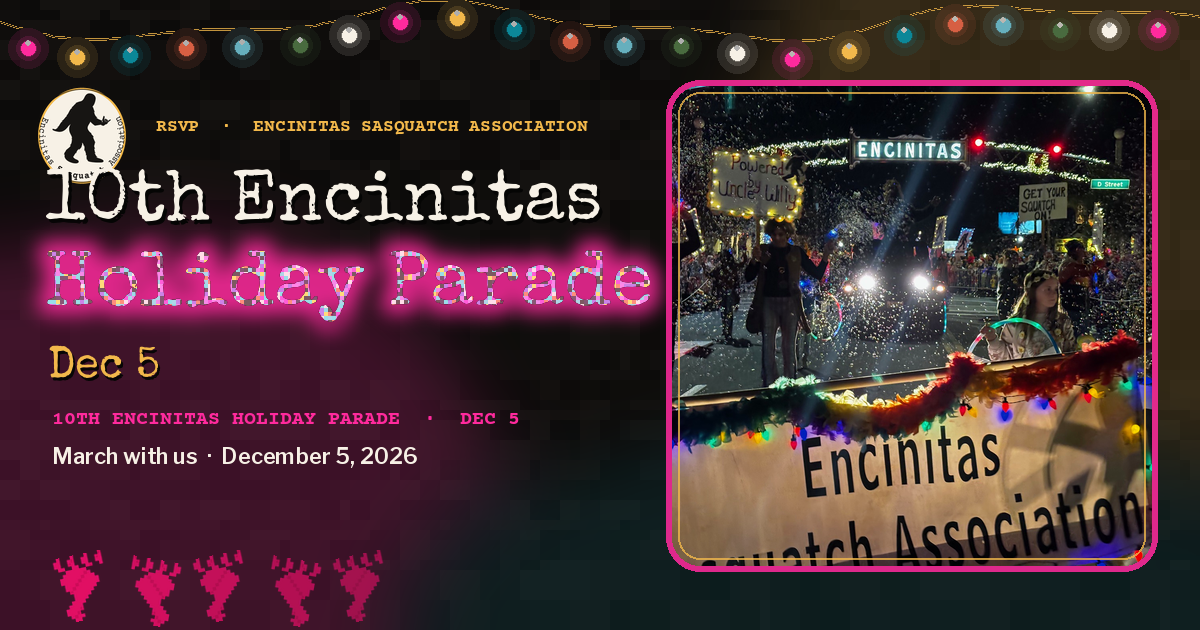
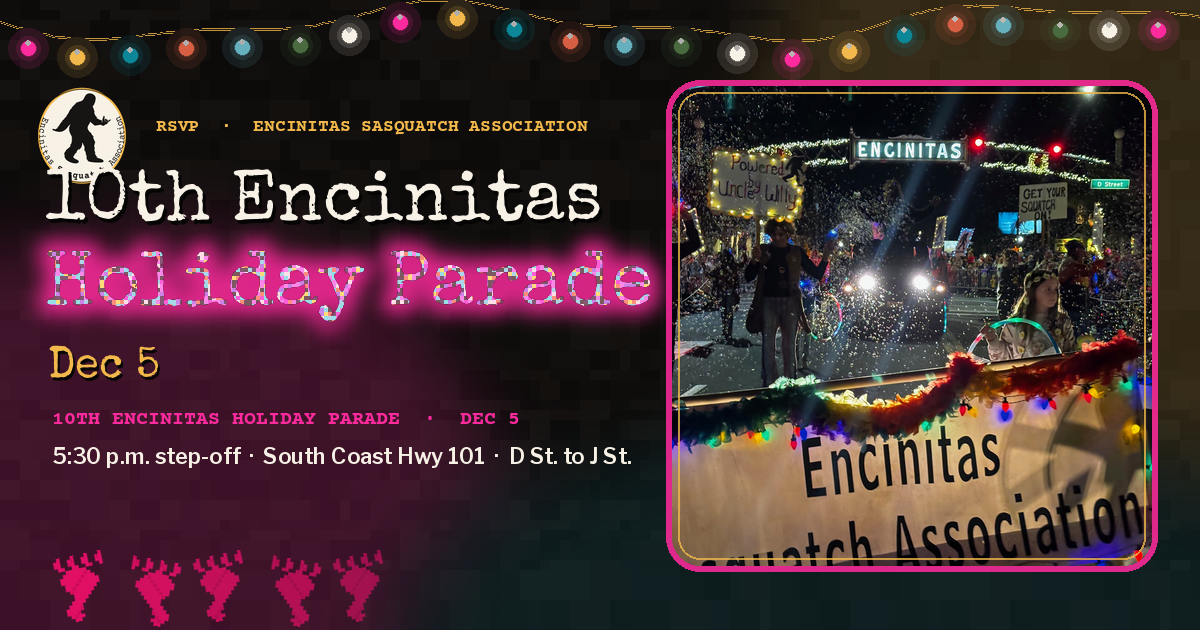
Make Holiday Parade 2026 date, time, and route unmistakable.
Add a high-contrast When & Where block to the parade event page, RSVP page, and featured home/upcoming cards, with Saturday, December 5, 2026, 5:30 p.m. step-off, and South Coast Hwy 101 from D St. to J St. Include Open in Maps and an Add to calendar .ics. Correct the shorter Coast Hwy 101 wording in events.json and the parade OG images. Staging stays TBD and is labeled separately from step-off.

Changed region(s): [[0.0308, 0.6937, 0.4008, 0.754], [0.4317, 0.6937, 0.5242, 0.754]]

diff --git a/public/css/styles.css b/public/css/styles.css
@@ -1282,3 +1282,99 @@ body.is-parade-rsvp .marching-list .party { color: var(--sun); }
   .rsvp-parade-hero .pk-camo, .rsvp-success-card .pk-camo { height: 72px; }
   .rsvp-success-card { padding-top: 72px; }
 }
+
+
+/* When & Where — Holiday Parade 2026 */
+.when-where {
+  position: relative;
+  overflow: hidden;
+  background: #171513;
+  color: var(--paper);
+  border-radius: 22px;
+  padding: 20px 22px 22px;
+  margin: 16px 0 20px;
+  border: 2px solid var(--sun);
+  box-shadow: 0 0 0 3px rgba(255, 42, 157, 0.4), var(--shadow);
+}
+.when-where .ww-kicker {
+  font-family: var(--mono);
+  font-weight: 700;
+  font-size: 0.72rem;
+  letter-spacing: 0.16em;
+  text-transform: uppercase;
+  color: var(--sun);
+  margin: 0 0 8px;
+}
+.when-where .ww-date {
+  font-family: var(--display);
+  font-weight: 700;
+  font-size: clamp(1.7rem, 4.4vw, 2.45rem);
+  line-height: 1.08;
+  letter-spacing: -0.02em;
+  color: var(--paper);
+  margin: 0 0 8px;
+}
+.when-where .ww-time {
+  font-family: var(--display);
+  font-weight: 700;
+  font-size: clamp(1.85rem, 5vw, 2.7rem);
+  line-height: 1.05;
+  letter-spacing: -0.02em;
+  color: #FF2A9D;
+  margin: 0 0 12px;
+}
+.when-where .ww-time-lead {
+  display: block;
+  font-family: var(--mono);
+  font-size: 0.72rem;
+  letter-spacing: 0.12em;
+  text-transform: uppercase;
+  color: var(--sun);
+  font-weight: 700;
+  margin: 0 0 4px;
+}
+.when-where .ww-route {
+  font-family: var(--display);
+  font-weight: 600;
+  font-size: clamp(1.15rem, 2.8vw, 1.5rem);
+  line-height: 1.25;
+  letter-spacing: -0.02em;
+  color: var(--paper);
+  margin: 0;
+}
+.when-where .ww-city {
+  margin: 4px 0 0;
+  color: rgba(247, 241, 230, 0.78);
+  font-size: 1rem;
+}
+.when-where .ww-actions { margin-top: 16px; }
+.when-where .ww-actions .btn-ghost {
+  border-color: var(--paper);
+  color: var(--paper) !important;
+}
+.when-where .ww-actions .btn-ghost:hover {
+  background: var(--paper);
+  color: var(--ink) !important;
+}
+.when-where.is-compact {
+  padding: 16px 18px 18px;
+  margin: 12px 0 16px;
+}
+.when-where.is-compact .ww-date { font-size: clamp(1.35rem, 3.2vw, 1.85rem); }
+.when-where.is-compact .ww-time { font-size: clamp(1.5rem, 3.6vw, 2.1rem); margin-bottom: 8px; }
+.when-where.is-compact .ww-route { font-size: clamp(1.05rem, 2.4vw, 1.25rem); }
+.when-where.is-compact .ww-actions { margin-top: 14px; }
+.when-where.is-compact .ww-actions .btn { padding: 12px 18px; }
+
+.rsvp-parade-hero .when-where,
+.event-hero .when-where {
+  max-width: 34rem;
+}
+.rsvp-parade-hero .when-where { margin: 12px 0 22px; }
+.rsvp-parade-hero .pk-headline { margin-top: 8px; }
+
+@media (max-width: 800px) {
+  .when-where { margin-top: 14px; padding: 16px 16px 18px; }
+  .event-hero .when-where,
+  .rsvp-parade-hero .when-where { max-width: none; }
+}

diff --git a/public/js/main.js b/public/js/main.js
@@ -244,7 +244,7 @@
           <div class="spotlight-copy">
             <p class="eyebrow">Next up · ${ESA.escapeHtml(next.type)}</p>
             <h2>${ESA.escapeHtml(next.name)}</h2>
-            <p class="meta" style="color:var(--sun);">${ESA.escapeHtml(ESA.formatDate(next))}${next.location ? " · " + ESA.escapeHtml(next.location) : ""}</p>
+            ${isParade2026(next) && window.ESA_FESTIVE ? window.ESA_FESTIVE.whenWhereHtml({ compact: true }) : `<p class="meta" style="color:var(--sun);">${ESA.escapeHtml(ESA.formatDate(next))}${next.location ? " · " + ESA.escapeHtml(next.location) : ""}</p>`}
             <p>${ESA.escapeHtml(next.summary)}</p>
             <p class="rsvp-count" data-rsvp-count="${ESA.escapeHtml(next.slug)}" hidden></p>
             <div class="btn-row">
@@ -273,7 +273,7 @@
             <div class="spotlight-copy">
               <p class="eyebrow">${ESA.escapeHtml(ev.type)}</p>
               <h2>${ESA.escapeHtml(ev.name)}</h2>
-              <p class="meta" style="color:var(--sun);">${ESA.escapeHtml(ESA.formatDate(ev))}${ev.location ? " · " + ESA.escapeHtml(ev.location) : ""}</p>
+              ${isParade2026(ev) && window.ESA_FESTIVE ? window.ESA_FESTIVE.whenWhereHtml({ compact: true }) : `<p class="meta" style="color:var(--sun);">${ESA.escapeHtml(ESA.formatDate(ev))}${ev.location ? " · " + ESA.escapeHtml(ev.location) : ""}</p>`}
               <p>${ESA.escapeHtml(ev.summary)}</p>
               <p class="rsvp-count" data-rsvp-count="${ESA.escapeHtml(ev.slug)}" hidden></p>
               <div class="btn-row">
@@ -378,7 +378,9 @@
             <div>
               <p class="eyebrow">${ESA.escapeHtml(ev.type)}${ev.theme ? " · " + ESA.escapeHtml(ev.theme) : ""}</p>
               <h1>${ESA.escapeHtml(ev.name)}</h1>
-              <p class="meta">${ESA.escapeHtml(ESA.formatDate(ev))}${ev.location ? " · " + ESA.escapeHtml(ev.location) : ""}</p>
+              ${isParade2026(ev) && window.ESA_FESTIVE
+                ? window.ESA_FESTIVE.whenWhereHtml()
+                : `<p class="meta">${ESA.escapeHtml(ESA.formatDate(ev))}${ev.location ? " · " + ESA.escapeHtml(ev.location) : ""}</p>`}
               ${ev.subhead ? `<p class="typewriter" style="min-height:0;margin:12px 0 16px;">${ESA.escapeHtml(ev.subhead)}</p>` : ""}
               <div class="btn-row" style="margin:18px 0 24px;">
                 ${cta}

diff --git a/public/js/festive.js b/public/js/festive.js
@@ -388,10 +388,38 @@
     }
   }
 
+  const PARADE_2026 = {
+    dateLabel: "Saturday, December 5, 2026",
+    timeLead: "Parade begins at",
+    timeLabel: "5:30 p.m. step-off",
+    route: "South Coast Hwy 101 · D St. to J St.",
+    city: "Encinitas",
+    mapsUrl: "https://www.google.com/maps/search/?api=1&query=South+Coast+Highway+101+%26+D+St%2C+Encinitas%2C+CA",
+    icsUrl: "/calendar/holiday-parade-2026.ics",
+  };
+
+  function whenWhereHtml(opts) {
+    const compact = !!(opts && opts.compact);
+    const maps = PARADE_2026.mapsUrl;
+    const ics = PARADE_2026.icsUrl;
+    return `<section class="when-where${compact ? " is-compact" : ""}" aria-label="When and where">
+      <p class="ww-kicker">When &amp; Where</p>
+      <p class="ww-date">${PARADE_2026.dateLabel}</p>
+      <p class="ww-time"><span class="ww-time-lead">${PARADE_2026.timeLead}</span> ${PARADE_2026.timeLabel}</p>
+      <p class="ww-route">${PARADE_2026.route}</p>
+      <p class="ww-city">${PARADE_2026.city}</p>
+      <div class="ww-actions btn-row">
+        <a class="btn btn-sun" href="${maps}" target="_blank" rel="noopener noreferrer">Open in Maps</a>
+        <a class="btn btn-ghost" href="${ics}" download="holiday-parade-2026.ics">Add to calendar</a>
+      </div>
+    </section>`;
+  }
+
   function rsvpParadeHeroHtml() {
     return `${lightsSvg()}${bubblesHtml()}
       <div class="wrap">
         <p class="pk-kicker">10th Encinitas Holiday Parade</p>
+        ${whenWhereHtml()}
         <p class="pk-headline">Wear camo.</p>
         <p class="pk-lit">Come lit.</p>
         ${camoHtml()}
@@ -531,7 +559,7 @@
   }
 
   window.ESA_FESTIVE = {
-    paradeArtHtml, paradeKitHtml, rsvpParadeHeroHtml, rsvpSuccessArtHtml, rsvpSuccessCamoHtml,
+    paradeArtHtml, paradeKitHtml, rsvpParadeHeroHtml, rsvpSuccessArtHtml, rsvpSuccessCamoHtml, whenWhereHtml,
     initStokeMeter, burst, initMusicToggle, unlockParadeMusic, playParadeMusic,
     fetchRsvpCount, paintRsvpCounts, bumpRsvpCount, countLabel, prefersReduced,
     displayNameFromFull, fetchAttendees, renderAttendees, paintAttendees,

diff --git a/public/join.html b/public/join.html
@@ -10,12 +10,12 @@
   <meta name="description" content="Apply to join the Encinitas Sasquatch Association. We welcome anyone and everyone who believes in something.">
   <link rel="icon" type="image/png" href="/assets/favicon-32.png">
   <link rel="apple-touch-icon" href="/assets/apple-touch-icon.png">
-  <link rel="stylesheet" href="/css/styles.css?v=20261117d">
-  <script src="/js/config.js?v=20261117d"></script>
-  <script src="/js/events.js?v=20261117d" defer></script>
-  <script src="/js/festive.js?v=20261117d" defer></script>
-  <script src="/js/main.js?v=20261117d" defer></script>
-  <script src="/js/forms.js?v=20261117d" defer></script>
+  <link rel="stylesheet" href="/css/styles.css?v=20261117e">
+  <script src="/js/config.js?v=20261117e"></script>
+  <script src="/js/events.js?v=20261117e" defer></script>
+  <script src="/js/festive.js?v=20261117e" defer></script>
+  <script src="/js/main.js?v=20261117e" defer></script>
+  <script src="/js/forms.js?v=20261117e" defer></script>
   <!-- esa-og -->
   <meta property="og:title" content="Join the ESA · Encinitas Sasquatch Association">
   <meta property="og:description" content="Apply to join the Encinitas Sasquatch Association. We welcome anyone and everyone who believes in something.">

diff --git a/public/rsvp.html b/public/rsvp.html
@@ -10,12 +10,12 @@
   <meta name="description" content="RSVP for an ESA event or volunteer for the float, a beach cleanup, or whatever the trail needs next.">
   <link rel="icon" type="image/png" href="/assets/favicon-32.png">
   <link rel="apple-touch-icon" href="/assets/apple-touch-icon.png">
-  <link rel="stylesheet" href="/css/styles.css?v=20261117d">
-  <script src="/js/config.js?v=20261117d"></script>
-  <script src="/js/events.js?v=20261117d" defer></script>
-  <script src="/js/festive.js?v=20261117d" defer></script>
-  <script src="/js/main.js?v=20261117d" defer></script>
-  <script src="/js/forms.js?v=20261117d" defer></script>
+  <link rel="stylesheet" href="/css/styles.css?v=20261117e">
+  <script src="/js/config.js?v=20261117e"></script>
+  <script src="/js/events.js?v=20261117e" defer></script>
+  <script src="/js/festive.js?v=20261117e" defer></script>
+  <script src="/js/main.js?v=20261117e" defer></script>
+  <script src="/js/forms.js?v=20261117e" defer></script>
   <!-- esa-og -->
   <meta property="og:title" content="RSVP / Volunteer · Encinitas Sasquatch Association">
   <meta property="og:description" content="RSVP for an ESA event or volunteer for the float, a beach cleanup, or whatever the trail needs next.">

diff --git a/public/index.html b/public/index.html
@@ -10,11 +10,11 @@
   <meta name="description" content="We celebrate Bigfoot’s love of Encinitas, California. Wander often. Wonder always. Join the Encinitas Sasquatch Association.">
   <link rel="icon" type="image/png" href="/assets/favicon-32.png">
   <link rel="apple-touch-icon" href="/assets/apple-touch-icon.png">
-    <link rel="stylesheet" href="/css/styles.css?v=20261117d">
-  <script src="/js/config.js?v=20261117d"></script>
-  <script src="/js/events.js?v=20261117d" defer></script>
-  <script src="/js/festive.js?v=20261117d" defer></script>
-  <script src="/js/main.js?v=20261117d" defer></script>
+    <link rel="stylesheet" href="/css/styles.css?v=20261117e">
+  <script src="/js/config.js?v=20261117e"></script>
+  <script src="/js/events.js?v=20261117e" defer></script>
+  <script src="/js/festive.js?v=20261117e" defer></script>
+  <script src="/js/main.js?v=20261117e" defer></script>
   <!-- esa-og -->
   <meta property="og:title" content="Encinitas Sasquatch Association · Believe">
   <meta property="og:description" content="We celebrate Bigfoot’s love of Encinitas, California. Wander often. Wonder always. Join the Encinitas Sasquatch Association.">

diff --git a/public/upcoming.html b/public/upcoming.html
@@ -10,11 +10,11 @@
   <meta name="description" content="What’s next for the Encinitas Sasquatch Association — upcoming parades, cleanups, and gatherings.">
   <link rel="icon" type="image/png" href="/assets/favicon-32.png">
   <link rel="apple-touch-icon" href="/assets/apple-touch-icon.png">
-    <link rel="stylesheet" href="/css/styles.css?v=20261117d">
-  <script src="/js/config.js?v=20261117d"></script>
-  <script src="/js/events.js?v=20261117d" defer></script>
-  <script src="/js/festive.js?v=20261117d" defer></script>
-  <script src="/js/main.js?v=20261117d" defer></script>
+    <link rel="stylesheet" href="/css/styles.css?v=20261117e">
+  <script src="/js/config.js?v=20261117e"></script>
+  <script src="/js/events.js?v=20261117e" defer></script>
+  <script src="/js/festive.js?v=20261117e" defer></script>
+  <script src="/js/main.js?v=20261117e" defer></script>
   <!-- esa-og -->
   <meta property="og:title" content="Upcoming Events · Encinitas Sasquatch Association">
   <meta property="og:description" content="What’s next for the Encinitas Sasquatch Association — the 10th Encinitas Holiday Parade on December 5, 2026, and more.">

diff --git a/public/events.html b/public/events.html
@@ -10,10 +10,10 @@
   <meta name="description" content="A chronological, interactive history of ESA parades, Pride, beach cleanups, and fundraisers — from 2018 through the 10th Holiday Parade.">
   <link rel="icon" type="image/png" href="/assets/favicon-32.png">
   <link rel="apple-touch-icon" href="/assets/apple-touch-icon.png">
-  <link rel="stylesheet" href="/css/styles.css?v=20261117d">
-    <script src="/js/events.js?v=20261117d" defer></script>
-    <script src="/js/festive.js?v=20261117d" defer></script>
-    <script src="/js/main.js?v=20261117d" defer></script>
+  <link rel="stylesheet" href="/css/styles.css?v=20261117e">
+    <script src="/js/events.js?v=20261117e" defer></script>
+    <script src="/js/festive.js?v=20261117e" defer></script>
+    <script src="/js/main.js?v=20261117e" defer></script>
   <!-- esa-og -->
   <meta property="og:title" content="Event History · Encinitas Sasquatch Association">
   <meta property="og:description" content="A chronological, interactive history of ESA parades, Pride, beach cleanups, and fundraisers — from 2018 through the 10th Holiday Parade.">

diff --git a/public/about.html b/public/about.html
@@ -10,10 +10,10 @@
   <meta name="description" content="Founded in 2016, the Encinitas Sasquatch Association inspires people to believe. Wander often. Wonder always.">
   <link rel="icon" type="image/png" href="/assets/favicon-32.png">
   <link rel="apple-touch-icon" href="/assets/apple-touch-icon.png">
-  <link rel="stylesheet" href="/css/styles.css?v=20261117d">
-    <script src="/js/events.js?v=20261117d" defer></script>
-    <script src="/js/festive.js?v=20261117d" defer></script>
-    <script src="/js/main.js?v=20261117d" defer></script>
+  <link rel="stylesheet" href="/css/styles.css?v=20261117e">
+    <script src="/js/events.js?v=20261117e" defer></script>
+    <script src="/js/festive.js?v=20261117e" defer></script>
+    <script src="/js/main.js?v=20261117e" defer></script>
   <!-- esa-og -->
   <meta property="og:title" content="About · Encinitas Sasquatch Association">
   <meta property="og:description" content="Founded in 2016, the Encinitas Sasquatch Association inspires people to believe. Wander often. Wonder always.">

diff --git a/public/grow.html b/public/grow.html
@@ -10,10 +10,10 @@
   <meta name="description" content="We believe that Bigfoot loves lima beans. Grow your own and you might just lure in a hungry squatch.">
   <link rel="icon" type="image/png" href="/assets/favicon-32.png">
   <link rel="apple-touch-icon" href="/assets/apple-touch-icon.png">
-  <link rel="stylesheet" href="/css/styles.css?v=20261117d">
-    <script src="/js/events.js?v=20261117d" defer></script>
-    <script src="/js/festive.js?v=20261117d" defer></script>
-    <script src="/js/main.js?v=20261117d" defer></script>
+  <link rel="stylesheet" href="/css/styles.css?v=20261117e">
+    <script src="/js/events.js?v=20261117e" defer></script>
+    <script src="/js/festive.js?v=20261117e" defer></script>
+    <script src="/js/main.js?v=20261117e" defer></script>
   <!-- esa-og -->
   <meta property="og:title" content="Grow lima beans · Encinitas Sasquatch Association">
   <meta property="og:description" content="We believe that Bigfoot loves lima beans. Grow your own and you might just lure in a hungry squatch.">

diff --git a/public/event.html b/public/event.html
@@ -10,11 +10,11 @@
   <meta name="description" content="An Encinitas Sasquatch Association event.">
   <link rel="icon" type="image/png" href="/assets/favicon-32.png">
   <link rel="apple-touch-icon" href="/assets/apple-touch-icon.png">
-    <link rel="stylesheet" href="/css/styles.css?v=20261117d">
-  <script src="/js/config.js?v=20261117d"></script>
-  <script src="/js/events.js?v=20261117d" defer></script>
-  <script src="/js/festive.js?v=20261117d" defer></script>
-  <script src="/js/main.js?v=20261117d" defer></script>
+    <link rel="stylesheet" href="/css/styles.css?v=20261117e">
+  <script src="/js/config.js?v=20261117e"></script>
+  <script src="/js/events.js?v=20261117e" defer></script>
+  <script src="/js/festive.js?v=20261117e" defer></script>
+  <script src="/js/main.js?v=20261117e" defer></script>
   <!-- esa-og -->
   <meta property="og:title" content="Event · Encinitas Sasquatch Association">
   <meta property="og:description" content="An Encinitas Sasquatch Association event.">

diff --git a/public/shop.html b/public/shop.html
@@ -10,10 +10,10 @@
   <meta name="description" content="The ESA Beach Cleanup Hat — make a statement while making a difference. $18, via Stripe.">
   <link rel="icon" type="image/png" href="/assets/favicon-32.png">
   <link rel="apple-touch-icon" href="/assets/apple-touch-icon.png">
-  <link rel="stylesheet" href="/css/styles.css?v=20261117d">
-    <script src="/js/events.js?v=20261117d" defer></script>
-    <script src="/js/festive.js?v=20261117d" defer></script>
-    <script src="/js/main.js?v=20261117d" defer></script>
+  <link rel="stylesheet" href="/css/styles.css?v=20261117e">
+    <script src="/js/events.js?v=20261117e" defer></script>
+    <script src="/js/festive.js?v=20261117e" defer></script>
+    <script src="/js/main.js?v=20261117e" defer></script>
   <!-- esa-og -->
   <meta property="og:title" content="Shop · Encinitas Sasquatch Association">
   <meta property="og:description" content="The ESA Beach Cleanup Hat — make a statement while making a difference. $18, via Stripe.">
